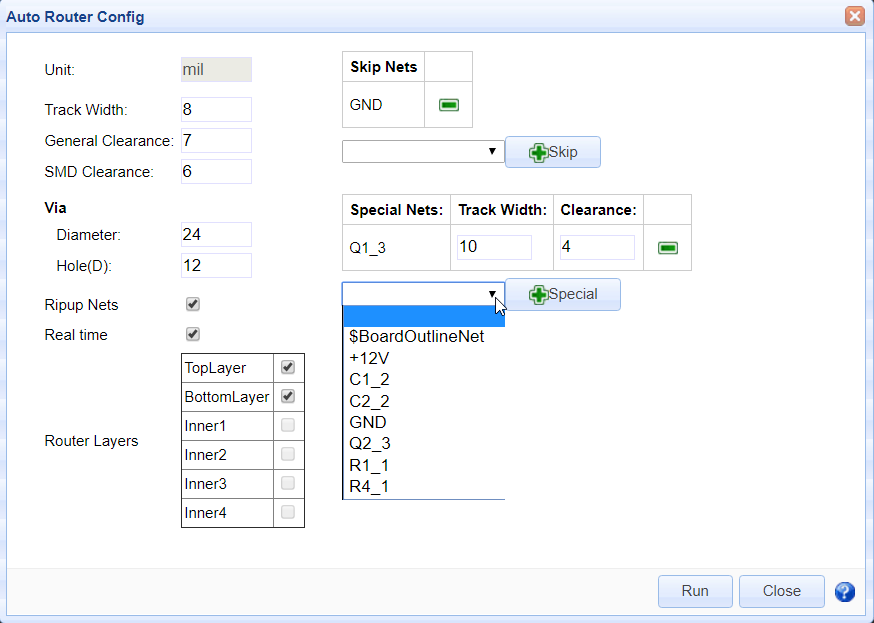
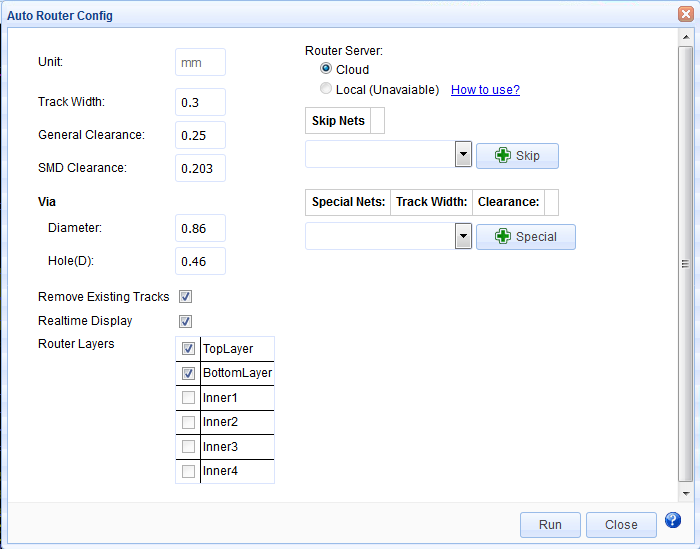
update local auto router

Changed region(s): [[0.0, 0.0, 1.0, 1.0], [0.21, 0.3716, 0.33, 0.4954]]

diff --git a/Tutorial/EasyEDA_Tutorial_20170914.md b/Tutorial/EasyEDA_Tutorial_20170914.md
@@ -1,7 +1,7 @@
 
 <h1 align = "center">EasyEDA Tutorial</h1>
 
-<p align = "center">2017.09.08</p>
+<p align = "center">2017.09.14</p>
 <p align = "center" >EasyEDA Editor: <a href=https://easyeda.com/editor>https://easyeda.com/editor</a></p>
 
 <p align = "center" ><img src="images/EasyEDA_logo.png" width=340></p>
@@ -22,15 +22,16 @@
       <td width="72%" style = font-weight:bold; >Description</td>
    </tr>
    <tr>
+      <td>2017.09.14</td>
+      <td>v4.9.2</td>
+      <td>Update local auto router description</td>
+   </tr>
+   <tr>
       <td>2017.09.08</td>
       <td>v4.8.5</td>
       <td>First release, Add "Essential Check" section, add "Essential Check Before Placing a PCB Order" of PCBOrder section</td>
    </tr>
-   <tr>
-      <td>NA</td>
-      <td></td>
-      <td></td>
-   </tr>
+
    <tr>
       <td>NA</td>
       <td></td>
@@ -3500,9 +3501,11 @@ This is a big feature of EasyEDA. It is hard to fix DRC errors after laying out 
 ## Auto Router
 
 For some simple or prototype PCBs, you may want to use the auto router function to save time. Layout is a time costly and dull job. EasyEDA spends lots of time to provide such a feature and it is loved by our users.
+Before using the auto router, you need to set the board outline for the PCB.
+
 Steps:
 
-**1 Click the the auto router button from the toolbar**
+**1 Click the the auto router button from the toolbar** or **"Super Menu > Miscellaneous > Auto Router"**
 
 ![](./images/180_PCB_AuotoRouter.png)
 
@@ -3512,29 +3515,67 @@ Steps:
 
 ![](./images/181_PCB_AuotoRouterConfig.png)  
 
-In the config dialog, you can set some rules to make the auto router result professional.
+In the config dialog, you can set some rules to make the auto router result professional. These rule must equalize or more than DRC setting.
 
-If you want to keep the routed tracks, you need to uncheck the `Ripup Nets`
-
-The real time check box will let you see how it is going, but it will make the process a little bit slow.   
-![](./images/182_PCB_AuotoRouterProcess.png) 
-
-If you like to keep the a net with no route, you can skip it. For example, if you want to use copper area to connect `GND` net, you can skip the `GND` net. 
-
-For the power supply track, you may want it to be bigger, so you can add some special rules. 
+-	**Remove Existing Tracks:** If you want to reserve the routed track, you need to deselect it.
+-	**Realtime Display:** when you select it , the real time routing status will show on.
+-	**Router Layers:** If you want to route inner layer, you have to enable the inner layer first at [Layers Setting](https://easyeda.com/Doc/Tutorial/PCB.htm#Layer-Setting).
+-	**Router Server:** 
+	-	**Cloud:** Using EasyEDA online server.
+	-	**Local:**  Using the local auto router server, when you click the Auto Router icon, the editor will check the local router server available or not automatically. How to use please see as below.
+-	**Skip Nets:**  If you like to keep the a net with no route, you can skip it. For example, if you want to use copper area to connect `GND` net, you can skip the `GND` net. 
+-	**Special Nets:** For the power supply track, you may want it to be bigger, so you can add some special rules. 
 
 **3 Run it**
 
-Click the run button, wait for a few seconds, after adding bottom and top copper area, you will get a finished PCB board like in the image below.
+After click the **"Run"** button , The real time check box will let you see how it is going, but it will make the process a little bit slow.   
+![](./images/182_PCB_AuotoRouterProcess.png) 
+
+Waiting for a few minutes, after adding bottom and top copper area, you will get a finished PCB board like in the image below.
 
 ![](./images/183_PCB_AuotoRouterFinish.png) 
+
+
+### Local Auto Router
+
+EasyEDA suggest that using local auto router rather than using the cloud server,  because when many users using cloud server, the auto router will fail.
+
+You need to configure the browser and execute the AutoRouter.bat first before click the **Auto Router** icon at editor.
+![](./images/287_PCB_LocalAutoRouter_Folder.png)
+
+This version only works on windows7(x64) or later.  Download via: [EasyEDA Router v0.2.zip]()
+
+**Notice:** *Please use the latest Chrome or Firefox !!!*
+
+**1)Chrome**
+
+If the local auto router is unavailable, you have to upgrade Chrome to version 60.0.3112.78 or later.
+
+
+**2)Firefox**
+
+Configure Firefox:
+
+Type "`about:config`" into the address bar then press enter, and search "allowInsecure", the completely preference name as below :
+
+	network.websocket.allowInsecureFromHTTPS
+
+double click it, its value will change  as "true", re-open Firefox and try again.
+
+![](./images/288_PCB_LocalAutoRouter_Firefox.png)
+
+If the local router server is available, the dialog will tell you. Click the **Run** button, the AutoRouter.bat dialog will show the process as below:
+
+![](./images/289_PCB_LocalAutoRouter_Dialog.png)
 
 Sometimes, if you can't get it done, try the tips below.
 
 1. Skip the GND nets, add copper area to GND net.
-2. use small tracks and small clearance, but make sure the value is more than 6mil.
+2. Use small tracks and small clearance, but make sure the value is more than 6mil.
 3. Route some key tracks manually before auto routing. 
 4. Add more layers, 4 layers or 6 layers
+5. Use local auto router rather than cloud server.
+6. Tell the error detail to us.
 
 Some professional people don't like the auto router, because they think auto router is not professional, but you can use the auto router to check your placement. to check the density of your PCB. 
 

diff --git a/Tutorial/PCB.md b/Tutorial/PCB.md
@@ -485,9 +485,11 @@ This is a big feature of EasyEDA. It is hard to fix DRC errors after laying out 
 ## Auto Router
 
 For some simple or prototype PCBs, you may want to use the auto router function to save time. Layout is a time costly and dull job. EasyEDA spends lots of time to provide such a feature and it is loved by our users.
+Before using the auto router, you need to set the board outline for the PCB.
+
 Steps:
 
-**1 Click the the auto router button from the toolbar**
+**1 Click the the auto router button from the toolbar** or **"Super Menu > Miscellaneous > Auto Router"**
 
 ![](./images/180_PCB_AuotoRouter.png)
 
@@ -497,29 +499,67 @@ Steps:
 
 ![](./images/181_PCB_AuotoRouterConfig.png)  
 
-In the config dialog, you can set some rules to make the auto router result professional.
+In the config dialog, you can set some rules to make the auto router result professional. These rule must equalize or more than DRC setting.
 
-If you want to keep the routed tracks, you need to uncheck the `Ripup Nets`
-
-The real time check box will let you see how it is going, but it will make the process a little bit slow.   
-![](./images/182_PCB_AuotoRouterProcess.png) 
-
-If you like to keep the a net with no route, you can skip it. For example, if you want to use copper area to connect `GND` net, you can skip the `GND` net. 
-
-For the power supply track, you may want it to be bigger, so you can add some special rules. 
+-	**Remove Existing Tracks:** If you want to reserve the routed track, you need to deselect it.
+-	**Realtime Display:** when you select it , the real time routing status will show on.
+-	**Router Layers:** If you want to route inner layer, you have to enable the inner layer first at [Layers Setting](https://easyeda.com/Doc/Tutorial/PCB.htm#Layer-Setting).
+-	**Router Server:** 
+	-	**Cloud:** Using EasyEDA online server.
+	-	**Local:**  Using the local auto router server, when you click the Auto Router icon, the editor will check the local router server available or not automatically. How to use please see as below.
+-	**Skip Nets:**  If you like to keep the a net with no route, you can skip it. For example, if you want to use copper area to connect `GND` net, you can skip the `GND` net. 
+-	**Special Nets:** For the power supply track, you may want it to be bigger, so you can add some special rules. 
 
 **3 Run it**
 
-Click the run button, wait for a few seconds, after adding bottom and top copper area, you will get a finished PCB board like in the image below.
+After click the **"Run"** button , The real time check box will let you see how it is going, but it will make the process a little bit slow.   
+![](./images/182_PCB_AuotoRouterProcess.png) 
+
+Waiting for a few minutes, after adding bottom and top copper area, you will get a finished PCB board like in the image below.
 
 ![](./images/183_PCB_AuotoRouterFinish.png) 
+
+
+### Local Auto Router
+
+EasyEDA suggest that using local auto router rather than using the cloud server,  because when many users using cloud server, the auto router will fail.
+
+You need to configure the browser and execute the AutoRouter.bat first before click the **Auto Router** icon at editor.
+![](./images/287_PCB_LocalAutoRouter_Folder.png)
+
+This version only works on windows7(x64) or later.  Download via: [EasyEDA Router v0.2.zip]()
+
+**Notice:** *Please use the latest Chrome or Firefox !!!*
+
+**1)Chrome**
+
+If the local auto router is unavailable, you have to upgrade Chrome to version 60.0.3112.78 or later.
+
+
+**2)Firefox**
+
+Configure Firefox:
+
+Type "`about:config`" into the address bar then press enter, and search "`allowInsecure`", and Find `network.websocket.allowInsecureFromHTTPS` , 
+
+double click it, its value will change  as "true", re-open Firefox and try again.
+
+![](./images/288_PCB_LocalAutoRouter_Firefox.png)
+
+If the local router server is available, the dialog will tell you. Click the **Run** button, the **AutoRouter.bat** dialog will show the process as below:
+
+![](./images/289_PCB_LocalAutoRouter_Dialog.png)
+
+**Tips**
 
 Sometimes, if you can't get it done, try the tips below.
 
 1. Skip the GND nets, add copper area to GND net.
-2. use small tracks and small clearance, but make sure the value is more than 6mil.
+2. Use small tracks and small clearance, but make sure the value is more than 6mil.
 3. Route some key tracks manually before auto routing. 
 4. Add more layers, 4 layers or 6 layers
+5. Use local auto router rather than cloud server.
+6. Tell the error detail to us.
 
 Some professional people don't like the auto router, because they think auto router is not professional, but you can use the auto router to check your placement. to check the density of your PCB. 
 

diff --git a/Tutorial_Chinese/立创EDA帮助文档_20170914.md b/Tutorial_Chinese/立创EDA帮助文档_20170914.md
@@ -1,6 +1,6 @@
 <h1 align = "center">立创EDA帮助文档</h1>
 
-<p align = "center">2017.09.08</p>
+<p align = "center">2017.09.14</p>
 <p align = "center" >立创EDA编辑器地址：<a href=https://lceda.cn/editor>https://lceda.cn/editor</a></p>
 
 <p align = "center" ><img src="images/lceda-logo_3.png" width=340></p>
@@ -21,6 +21,11 @@
       <td width="78%" style = font-weight:bold; >更新简述</td>
    </tr>
    <tr>
+      <td>2017.09.14</td>
+      <td>v4.9.2</td>
+      <td>新增“本地自动布线”章节</td>
+   </tr>
+   <tr>
       <td>2017.09.08</td>
       <td>v4.8.5</td>
       <td>修正错误，添加“浏览器设置”章节</td>
@@ -30,11 +35,7 @@
       <td>v4.8.5</td>
       <td>第一版更新，未包含仿真章节</td>
    </tr>
-   <tr>
-      <td>NA</td>
-      <td></td>
-      <td></td>
-   </tr>
+
    <tr>
       <td>NA</td>
       <td></td>
